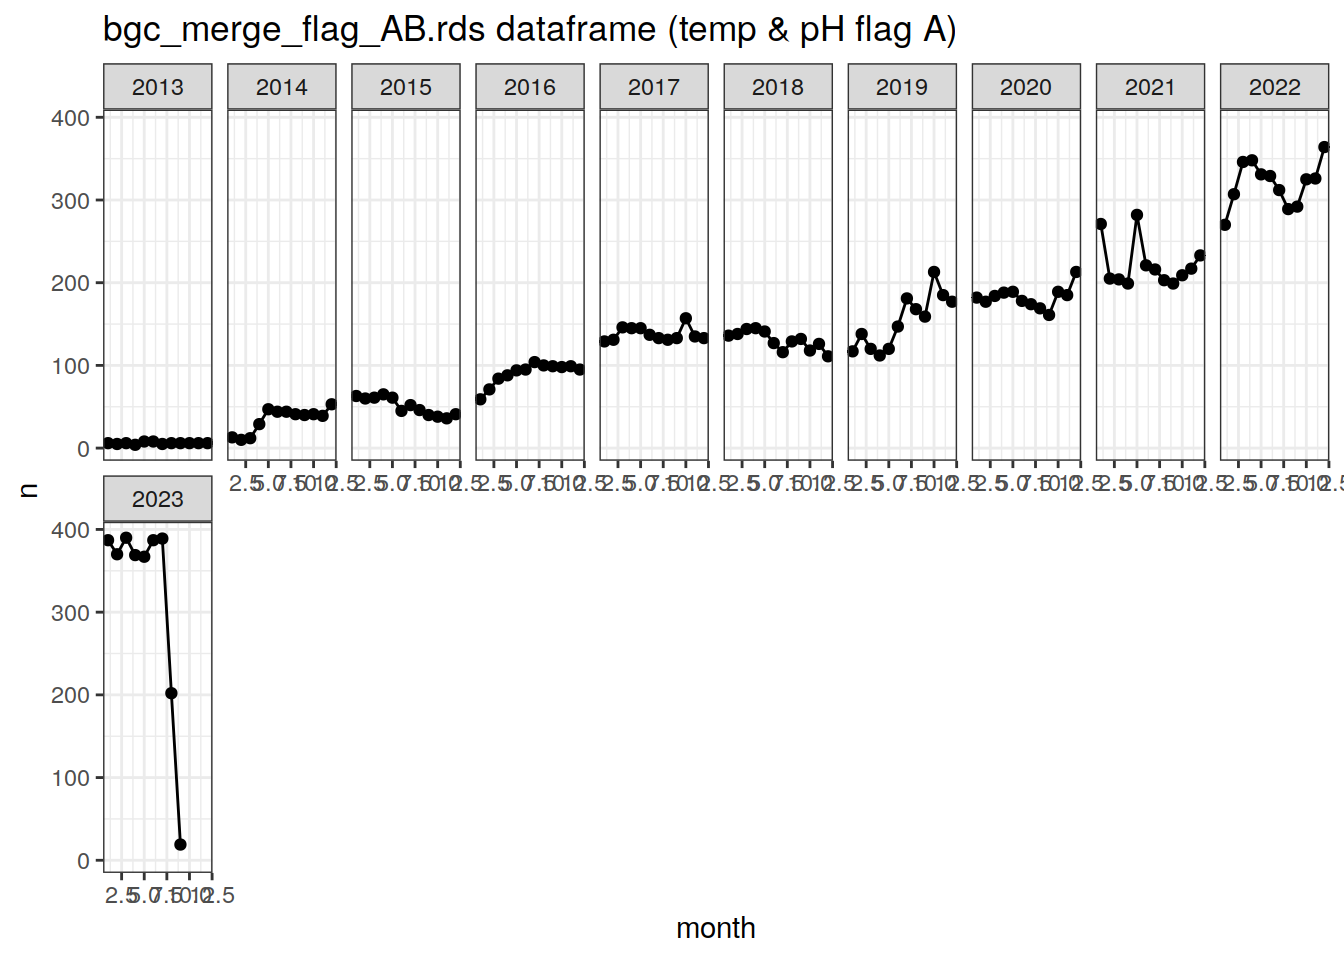
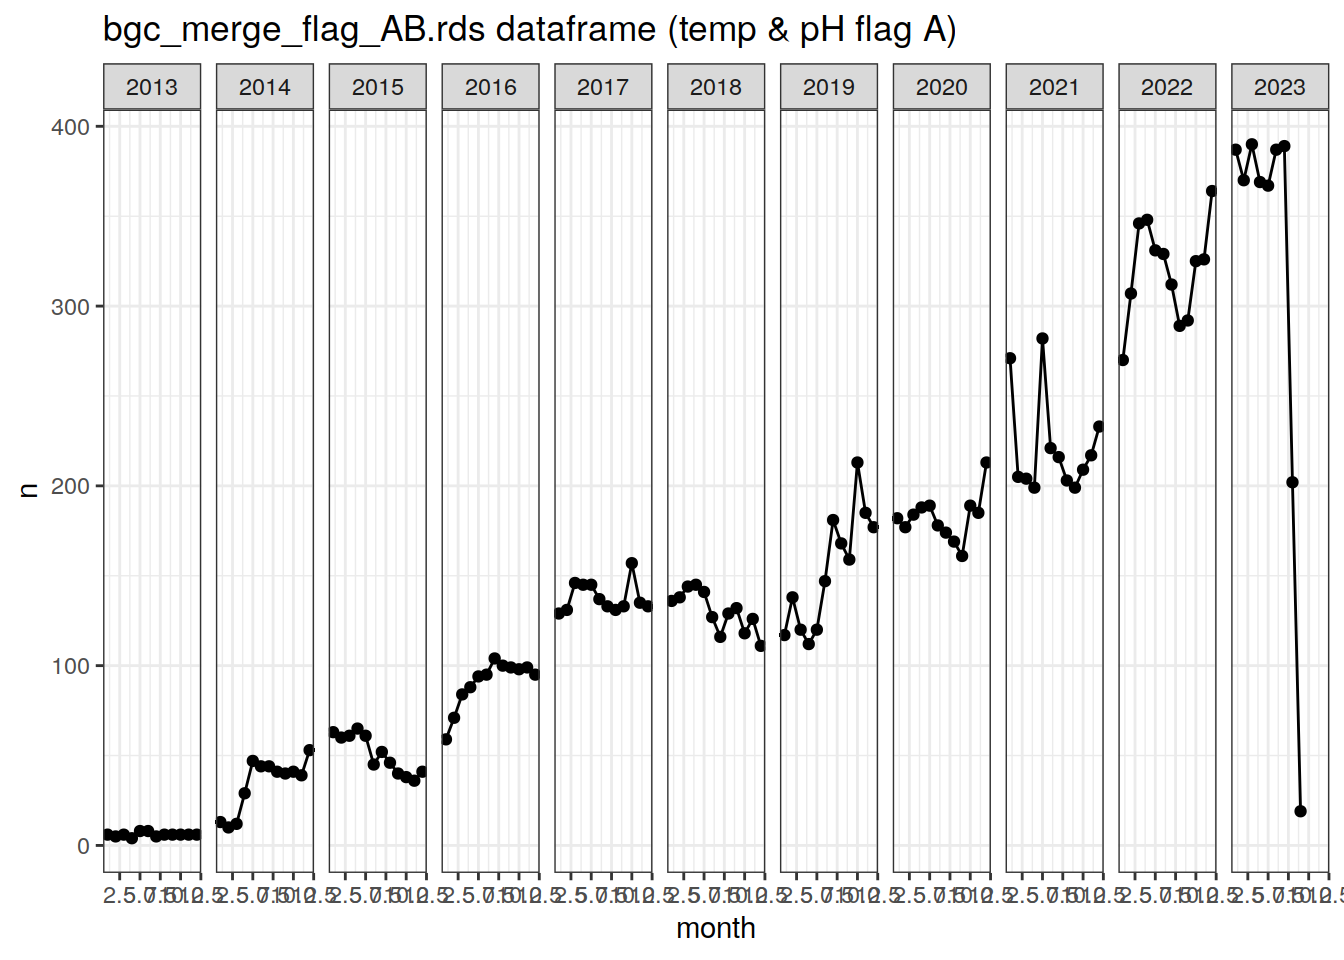
Build site.

diff --git a/docs/coverage_timeseries.html b/docs/coverage_timeseries.html
@@ -466,7 +466,7 @@ div.tocify {
 
 <h1 class="title toc-ignore">Temporal data coverage</h1>
 <h4 class="author">Pasqualina Vonlanthen &amp; Jens Daniel Müller</h4>
-<h4 class="date">02 October, 2023</h4>
+<h4 class="date">04 October, 2023</h4>
 
 </div>
 
@@ -495,7 +495,7 @@ class="glyphicon glyphicon-ok text-success" aria-hidden="true"></span>
 <div class="tab-content">
 <div id="summary" class="tab-pane fade in active">
 <p>
-<strong>Last updated:</strong> 2023-10-02
+<strong>Last updated:</strong> 2023-10-04
 </p>
 <p>
 <strong>Checks:</strong> <span
@@ -626,15 +626,15 @@ project makes it easier to run your code on other machines.</p>
 <div class="panel panel-default">
 <div class="panel-heading">
 <p class="panel-title">
-<a data-toggle="collapse" data-parent="#workflowr-checks" href="#strongRepositoryversionstrongahrefhttpsgithubcomjensdanielmuellerbgcargorargodatatreeaf3d59760dfc2e61b7aa1e8cde81759a37bd17bctargetblankaf3d597a">
+<a data-toggle="collapse" data-parent="#workflowr-checks" href="#strongRepositoryversionstrongahrefhttpsgithubcomjensdanielmuellerbgcargorargodatatree6ad3f88fce97cf31c6f9ba4fc8734dea41b44c0dtargetblank6ad3f88a">
 <span class="glyphicon glyphicon-ok text-success"
 aria-hidden="true"></span> <strong>Repository version:</strong>
-<a href="https://github.com/jens-daniel-mueller/bgc_argo_r_argodata/tree/af3d59760dfc2e61b7aa1e8cde81759a37bd17bc" target="_blank">af3d597</a>
+<a href="https://github.com/jens-daniel-mueller/bgc_argo_r_argodata/tree/6ad3f88fce97cf31c6f9ba4fc8734dea41b44c0d" target="_blank">6ad3f88</a>
 </a>
 </p>
 </div>
 <div
[2 lines of base64/hex data omitted]
 class="panel-collapse collapse">
 <div class="panel-body">
 <p>
@@ -644,7 +644,7 @@ reproducibility.
 </p>
 <p>
 The results in this page were generated with repository version
-<a href="https://github.com/jens-daniel-mueller/bgc_argo_r_argodata/tree/af3d59760dfc2e61b7aa1e8cde81759a37bd17bc" target="_blank">af3d597</a>.
+<a href="https://github.com/jens-daniel-mueller/bgc_argo_r_argodata/tree/6ad3f88fce97cf31c6f9ba4fc8734dea41b44c0d" target="_blank">6ad3f88</a>.
 See the <em>Past versions</em> tab to see a history of the changes made
 to the R Markdown and HTML files.
 </p>
@@ -661,14 +661,28 @@ were generated:
 Ignored files:
     Ignored:    .Rhistory
     Ignored:    .Rproj.user/
+    Ignored:    analysis/figure/
     Ignored:    output/
 
 Untracked files:
-    Untracked:  analysis/vertical_alignment.Rmd
-    Untracked:  code/start_background_job.R
+    Untracked:  code/vertical_alignment.Rmd
 
 Unstaged changes:
+    Modified:   analysis/argo_oxygen.Rmd
+    Modified:   analysis/argo_ph.Rmd
+    Modified:   analysis/argo_temp.Rmd
+    Modified:   analysis/argo_temp_core.Rmd
+    Modified:   analysis/coverage_maps.Rmd
+    Modified:   analysis/extreme_compound.Rmd
+    Modified:   analysis/extreme_pH.Rmd
+    Modified:   analysis/extreme_temp.Rmd
+    Modified:   analysis/extreme_temp_core.Rmd
     Modified:   analysis/load_argo.Rmd
+    Modified:   analysis/oceanSODA_argo_pH.Rmd
+    Modified:   analysis/oceanSODA_argo_temp.Rmd
+    Modified:   analysis/variability_pH.Rmd
+    Modified:   analysis/variability_temp.Rmd
+    Modified:   code/Workflowr_project_managment.R
 
 </code></pre>
 <p>
@@ -714,6 +728,40 @@ Message
 </tr>
 </thead>
 <tbody>
+<tr>
+<td>
+Rmd
+</td>
+<td>
+<a href="https://github.com/jens-daniel-mueller/bgc_argo_r_argodata/blob/6ad3f88fce97cf31c6f9ba4fc8734dea41b44c0d/analysis/coverage_timeseries.Rmd" target="_blank">6ad3f88</a>
+</td>
+<td>
+ds2n19
+</td>
+<td>
+2023-10-04
+</td>
+<td>
+update with 2023 data
+</td>
+</tr>
+<tr>
+<td>
+html
+</td>
+<td>
+<a href="https://rawcdn.githack.com/jens-daniel-mueller/bgc_argo_r_argodata/90ff007f8e3c5265dc2ab2c766ebc085591780cb/docs/coverage_timeseries.html" target="_blank">90ff007</a>
+</td>
+<td>
+ds2n19
+</td>
+<td>
+2023-10-02
+</td>
+<td>
+Build site.
+</td>
+</tr>
 <tr>
 <td>
 html
@@ -2082,7 +2130,7 @@ print(sum(flag_AB_n$n))</code></pre>
   ggplot(aes(x = month, y = n))+
   geom_point()+
   geom_line()+
-  facet_wrap(~year, ncol = 10)+
+  facet_wrap(~year, ncol = 11)+
   labs(title = &#39;bgc_merge_flag_AB.rds dataframe (temp &amp; pH flag A)&#39;)</code></pre>
 <p><img src="figure/coverage_timeseries.Rmd/flag_A_dataframe-1.png" width="672" style="display: block; margin: auto;" /></p>
 <p>
@@ -3854,34 +3902,36 @@ other attached packages:
  [1] lubridate_1.9.0  timechange_0.1.1 argodata_0.1.0   forcats_0.5.2   
  [5] stringr_1.4.1    dplyr_1.0.10     purrr_0.3.5      readr_2.1.3     
  [9] tidyr_1.2.1      tibble_3.1.8     ggplot2_3.4.0    tidyverse_1.3.2 
+[13] workflowr_1.7.0 
 
 loaded via a namespace (and not attached):
  [1] httr_1.4.4          sass_0.4.4          bit64_4.0.5        
  [4] vroom_1.6.0         jsonlite_1.8.3      modelr_0.1.10      
- [7] bslib_0.4.1         assertthat_0.2.1    highr_0.9          
-[10] googlesheets4_1.0.1 cellranger_1.1.0    yaml_2.3.6         
-[13] pillar_1.8.1        backports_1.4.1     glue_1.6.2         
-[16] digest_0.6.30       RColorBrewer_1.1-3  promises_1.2.0.1   
-[19] rvest_1.0.3         colorspace_2.0-3    htmltools_0.5.3    
-[22] httpuv_1.6.6        pkgconfig_2.0.3     broom_1.0.1        
-[25] haven_2.5.1         scales_1.2.1        whisker_0.4        
-[28] later_1.3.0         tzdb_0.3.0          git2r_0.30.1       
-[31] googledrive_2.0.0   generics_0.1.3      farver_2.1.1       
-[34] ellipsis_0.3.2      cachem_1.0.6        withr_2.5.0        
-[37] cli_3.4.1           magrittr_2.0.3      crayon_1.5.2       
-[40] readxl_1.4.1        evaluate_0.18       fs_1.5.2           
-[43] fansi_1.0.3         xml2_1.3.3          textshaping_0.3.6  
-[46] tools_4.2.2         hms_1.1.2           gargle_1.2.1       
-[49] lifecycle_1.0.3     munsell_0.5.0       reprex_2.0.2       
-[52] compiler_4.2.2      jquerylib_0.1.4     RNetCDF_2.6-1      
-[55] systemfonts_1.0.4   rlang_1.1.1         grid_4.2.2         
-[58] rstudioapi_0.14     labeling_0.4.2      rmarkdown_2.18     
-[61] gtable_0.3.1        DBI_1.1.3           R6_2.5.1           
-[64] knitr_1.41          fastmap_1.1.0       bit_4.0.5          
-[67] utf8_1.2.2          workflowr_1.7.0     rprojroot_2.0.3    
-[70] ragg_1.2.4          stringi_1.7.8       parallel_4.2.2     
-[73] Rcpp_1.0.10         vctrs_0.5.1         dbplyr_2.2.1       
-[76] tidyselect_1.2.0    xfun_0.35          </code></pre>
+ [7] bslib_0.4.1         assertthat_0.2.1    getPass_0.2-2      
+[10] highr_0.9           googlesheets4_1.0.1 cellranger_1.1.0   
+[13] yaml_2.3.6          pillar_1.8.1        backports_1.4.1    
+[16] glue_1.6.2          digest_0.6.30       RColorBrewer_1.1-3 
+[19] promises_1.2.0.1    rvest_1.0.3         colorspace_2.0-3   
+[22] htmltools_0.5.3     httpuv_1.6.6        pkgconfig_2.0.3    
+[25] broom_1.0.1         haven_2.5.1         scales_1.2.1       
+[28] processx_3.8.0      whisker_0.4         later_1.3.0        
+[31] tzdb_0.3.0          git2r_0.30.1        googledrive_2.0.0  
+[34] farver_2.1.1        generics_0.1.3      ellipsis_0.3.2     
+[37] cachem_1.0.6        withr_2.5.0         cli_3.4.1          
+[40] magrittr_2.0.3      crayon_1.5.2        readxl_1.4.1       
+[43] evaluate_0.18       ps_1.7.2            fs_1.5.2           
+[46] fansi_1.0.3         xml2_1.3.3          textshaping_0.3.6  
+[49] tools_4.2.2         hms_1.1.2           gargle_1.2.1       
+[52] lifecycle_1.0.3     munsell_0.5.0       reprex_2.0.2       
+[55] callr_3.7.3         compiler_4.2.2      jquerylib_0.1.4    
+[58] RNetCDF_2.6-1       systemfonts_1.0.4   rlang_1.1.1        
+[61] grid_4.2.2          rstudioapi_0.14     labeling_0.4.2     
+[64] rmarkdown_2.18      gtable_0.3.1        DBI_1.1.3          
+[67] R6_2.5.1            knitr_1.41          fastmap_1.1.0      
+[70] bit_4.0.5           utf8_1.2.2          rprojroot_2.0.3    
+[73] ragg_1.2.4          stringi_1.7.8       parallel_4.2.2     
+[76] Rcpp_1.0.10         vctrs_0.5.1         dbplyr_2.2.1       
+[79] tidyselect_1.2.0    xfun_0.35          </code></pre>
 </div>
 </div>
 </div>
